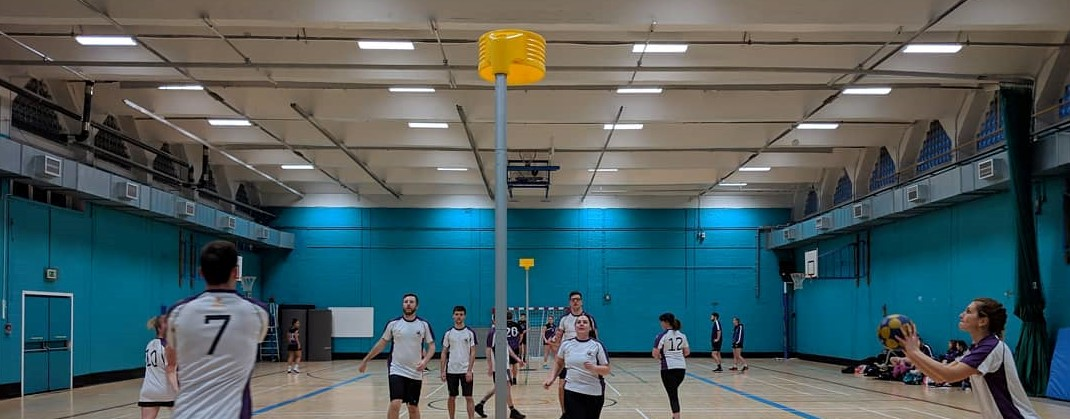
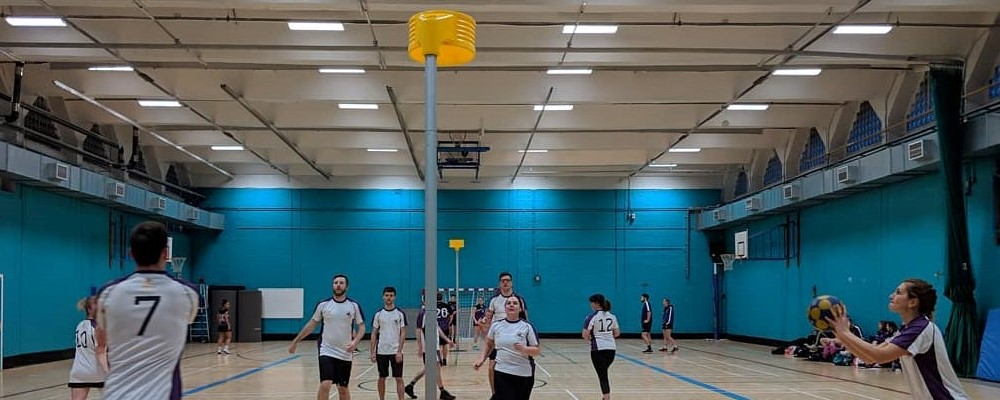
edited index page and new image

diff --git a/index.html b/index.html
@@ -23,23 +23,31 @@
                         <img src="images/snake.png" alt="Logo" >                         
                        
                     </a>
+                    
                     <a class= "name" href="#!">
-                        SNAKEBITE <br> Korfball Club
+                        <span style="font-size: 2.62vw">  SNAKEBITE </span> 
+                        <br> <span style="font-size: 1.8vw">  KORFBALL CLUB </span>
                     </a>
                     
                 </div>
 
-                <!-- <div class = "socal_media">
-
-                </div> -->
+                <div class = "socal_media_div">
+                    <nav>
+                        <ul>
+                            <li>
+                                <a class="social_media" href="#!">Social media</a>
+                            </li>
+                        </ul>
+                    </nav>
+                </div>
 
                 <nav>
                     
-                    <ul>
+                    <!-- <ul>
                         <li>
                             <a class="social_media" href="#!">Social media</a>
                         </li>
-                    </ul>
+                    </ul> -->
                     <ul class="nav-list">
                         <li class="right">
                             <a href="#!">Home</a>
@@ -64,10 +72,33 @@
         <div class="vline">
 
         </div>
+
+
+        <div class= "container">
+        <div class = "row" >
+            <div class = "one column">
+                <div id="slideshow">
+                    <div >
+                        <div style = "background: black;">
+                        <img class="slideshowimg" src="images/2ndteamwarmup_landscape.jpg">
+                        </div>
+                    </div>
+                    <div>
+                        <div style = "background: black;">
+                        <img class="slideshowimg" src="images/banner1.jpg">
+                        </div>
+                    </div>
+                </div>
+            </div>
+
+
+        </div>
+        </div>
    
 
 
-
+        <script src="js/jquery-3.4.1.min.js"></script>
+        <script src="js/script.js"></script>
     </body>
 
 </html>

diff --git a/styles/main.css b/styles/main.css
@@ -68,12 +68,11 @@ html {
 
 .container {
     margin: 0 auto;
-    padding: 40px 20px;
+    padding: 0px 0px;
     max-width: 1600px;
     font-family: 'open_sansregular'; 
-    background: white; 
+    background: black; 
     color: rgb(0, 0, 0);
-    
   }
 
   .row::before,
@@ -159,7 +158,7 @@ html {
     /* #endregion */
 
 
-    /* #region -- navigation bar */
+/* #region -- navigation bar */
     /*  navigation bar */
 
 
@@ -185,10 +184,10 @@ html {
     padding-left: 2px;
     float: left;
     /* line-height: 20px; */
-    text-transform: uppercase;
-    font-size: 1.2em;
+    /* text-transform: uppercase; */
+    /* font-size: 1.2em; */
     z-index: 1;
-    width: 25%;
+    width: 27%;
   }
 
   .brand a img{
@@ -204,10 +203,10 @@ html {
   .brand a:visited {
     float: left;
     position: relative;
-    color: #ffffff;
+    color: #ebde33;
     text-decoration: none;
     font-family: 'oxygenbold';
-    line-height: 25px;
+    line-height: 30px;
    
   }
 
@@ -221,7 +220,7 @@ html {
     list-style: none;
     margin: 0;
     padding: 0;
-    width: 75%;
+    width: 73%;
     float: right;
   }
 
@@ -229,6 +228,14 @@ html {
     display: block;
     line-height: 40px;
     background: var(--dark-purp);
+  }
+
+  .social_media_div {
+    display: block;
+    float: right;
+    line-height: 30px;
+    background: var(--dark-purp);
+    width: 73%
   }
   
   
@@ -351,5 +358,34 @@ html {
   }
   
   
+
+  /* #endregion */
+
+
+  /* #region content */
+
+  #slideshow { 
+    margin: 0px; 
+    position: relative; 
+    width: 100%; 
+    padding: 0px;
+    }
+
+#slideshow > div { 
+    position: absolute; 
+    top: 0px; 
+    left: 0px; 
+    right: 0px; 
+    bottom: 0px; 
+    
+}
+
+.slideshowimg {
+  height: 400px;
+  display:block;
+  margin-left: auto;
+  margin-right: auto;
+  /* margin-top: 0px; */
+}
 
   /* #endregion */

diff --git a/js/script.js b/js/script.js
@@ -10,3 +10,17 @@
       });
     }); // end DOM ready
   })(jQuery); // end jQuery
+
+
+
+
+  $("#slideshow > div:gt(0)").hide();
+
+setInterval(function() { 
+  $('#slideshow > div:first')
+    .fadeOut(1000)
+    .next()
+    .fadeIn(1000)
+    .end()
+    .appendTo('#slideshow');
+},  5000);
